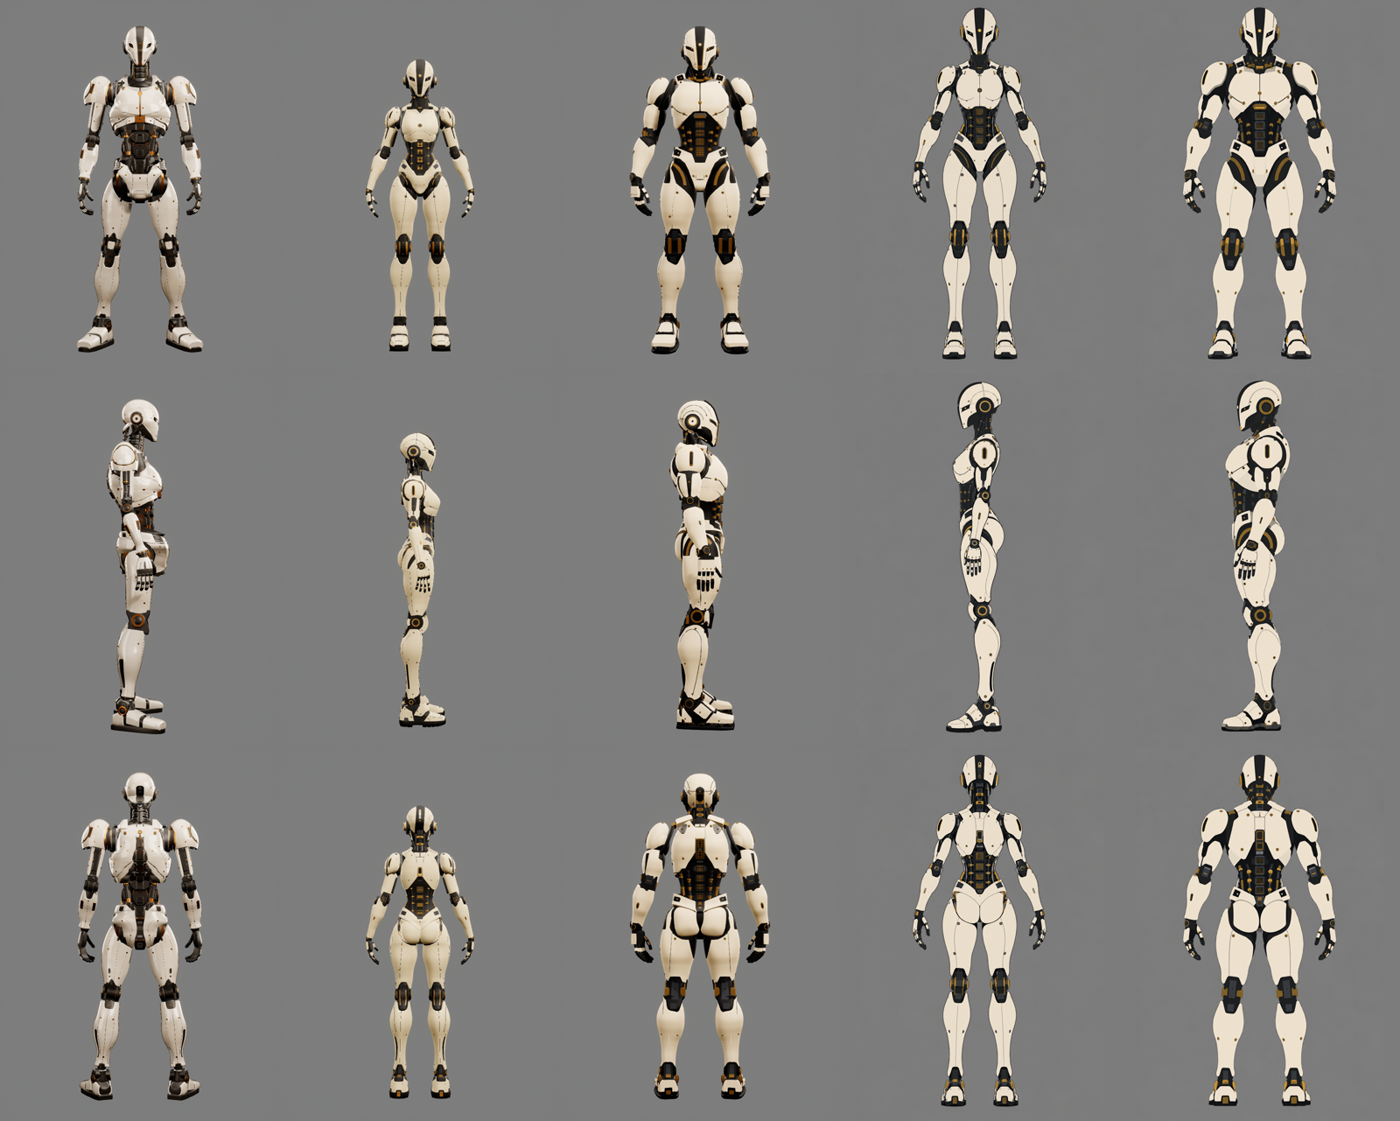
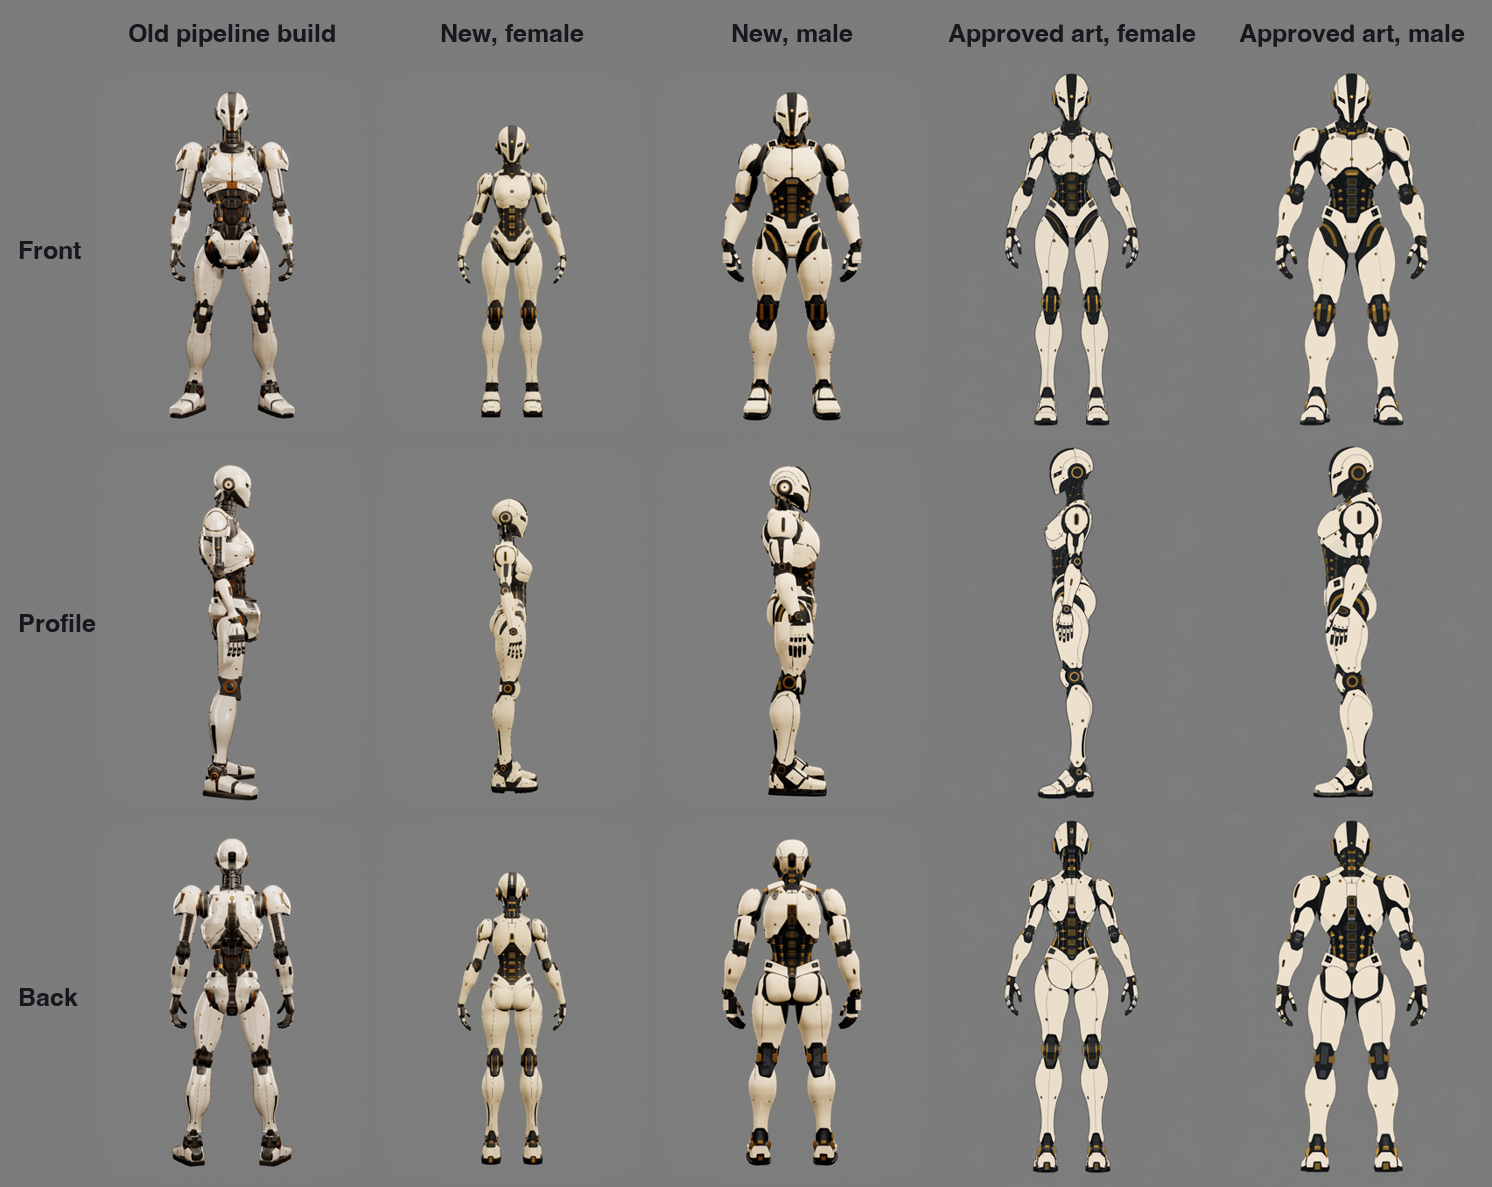
Move the droid figure above the tables and label its columns and rows
The caption now says the frames are for showing the work and that the
scores were taken on each pipeline's own renders.

Claude-Session: https://claude.ai/code/session_0155zPDGuk8QMTu5SQ7WvJY6

diff --git a/README.md b/README.md
@@ -22,6 +22,10 @@ Running agents for months has taught me three things. AI cheats: tests pass for 
 
 I run AI agents that build 3D models from approved concept art for days with no person watching. The only overseer that scales to that is another model: a judge that scores each build against the art. My question is when that judge can stand in for me, and what the builders do once its score is what they work toward. In November I replaced my first pipeline with one built in two phases, shape and then texture. Each phase has two passes, an Opus pass and then a Fable pass, and each pass is three rounds, one per view (front, profile, back): 2 phases x 2 passes x 3 views = 12 rounds per body. In every round a fresh judge reviews the build from that view and then the same session fixes what it found. On one chassis the new method was faster, cheaper and scored higher (judge only, not validated): about a tenth of the agent hours and about a quarter of the build cost per body. The gains on speed and cost are large. I do not claim the builds are better yet. The scores come from one model judge that has not been checked against me, the new method also had better reference art and more model effort, and the same judge predicted my own past picks 8 times out of 24, where chance is 6. In two rounds a builder's own score rose while a fresh scorer's did not. The rule for trusting the judge, 85% agreement with me on blinded pairs with a 95% lower bound of 75%, was fixed and posted before any label.
 
+![Old build, new female, new male, then the approved female and male art, at front, profile and back](figures/droid_old_new_art.png)
+
+*Columns: old pipeline build (one unsexed body, built to an earlier concept sheet), new female final, new male final, approved female art, approved male art. All three builds are Unreal Engine 5.8.4 renders of the built 3D meshes, with one camera, light and background; the art columns are the 2D concept art. These frames are for showing the work. The scores were taken on each pipeline's own renders, which differed ([confound 6](METHOD.md#confounds)).*
+
 **The research question.** When agents work for days with no person watching and a model judge is the only check, when can the judge stand in for the person, and how do I detect a builder that is fitting the judge instead of doing the task? It has three measurable parts:
 
 1. **Validity:** judge and person agreement on blinded pairs, against a bar set in advance.
@@ -38,10 +42,6 @@ I run AI agents that build 3D models from approved concept art for days with no 
 | 4 | Parts against the old pipeline's own per-part references, 0 to 100 | 54.9 | 59.9 (female), 60.9 (male) | 11 parts, 3 views | Judge only, not validated. The like-for-like target: the gap is 5 to 6 points |
 | 5 | Judge's "acceptable as is for the next step" | not asked | female 20 of 24 rows, male 16 of 25 | part and target rows | Judge only, not validated. I have not been asked |
 | 6 | Builder self-score against a fresh scorer | | mean self minus fresh +1.18 points (SD 5.32); self more than 5 points above fresh in 9 of 33 rounds. Cited cases: female self 58 to 67 (profile) while fresh stayed 73.3; male self 61 to 72 while fresh profile fell 76 to 70 | 33 rounds with both scores | Judge only, not validated. A lead, not a finding: some scorers had seen earlier scores |
-
-![Old build, new female, new male, then the approved female and male art, at front, profile and back](figures/droid_old_new_art.png)
-
-*Columns: old pipeline build (one unsexed body, built to an earlier concept sheet), new female final, new male final, approved female art, approved male art. All three builds are Unreal Engine 5.8.4 renders of the built 3D meshes, with one camera, light and background; the art columns are the 2D concept art.*
 
 **Cost per round, new method.** Every finished round so far (the standard chassis, the lean chassis shape phase, and the angular chassis first round): 41 build rounds and 36 scorer rounds, list price, one session each, so nothing is counted twice. Three rounds that ended at an account limit are included at their partial cost.
 
